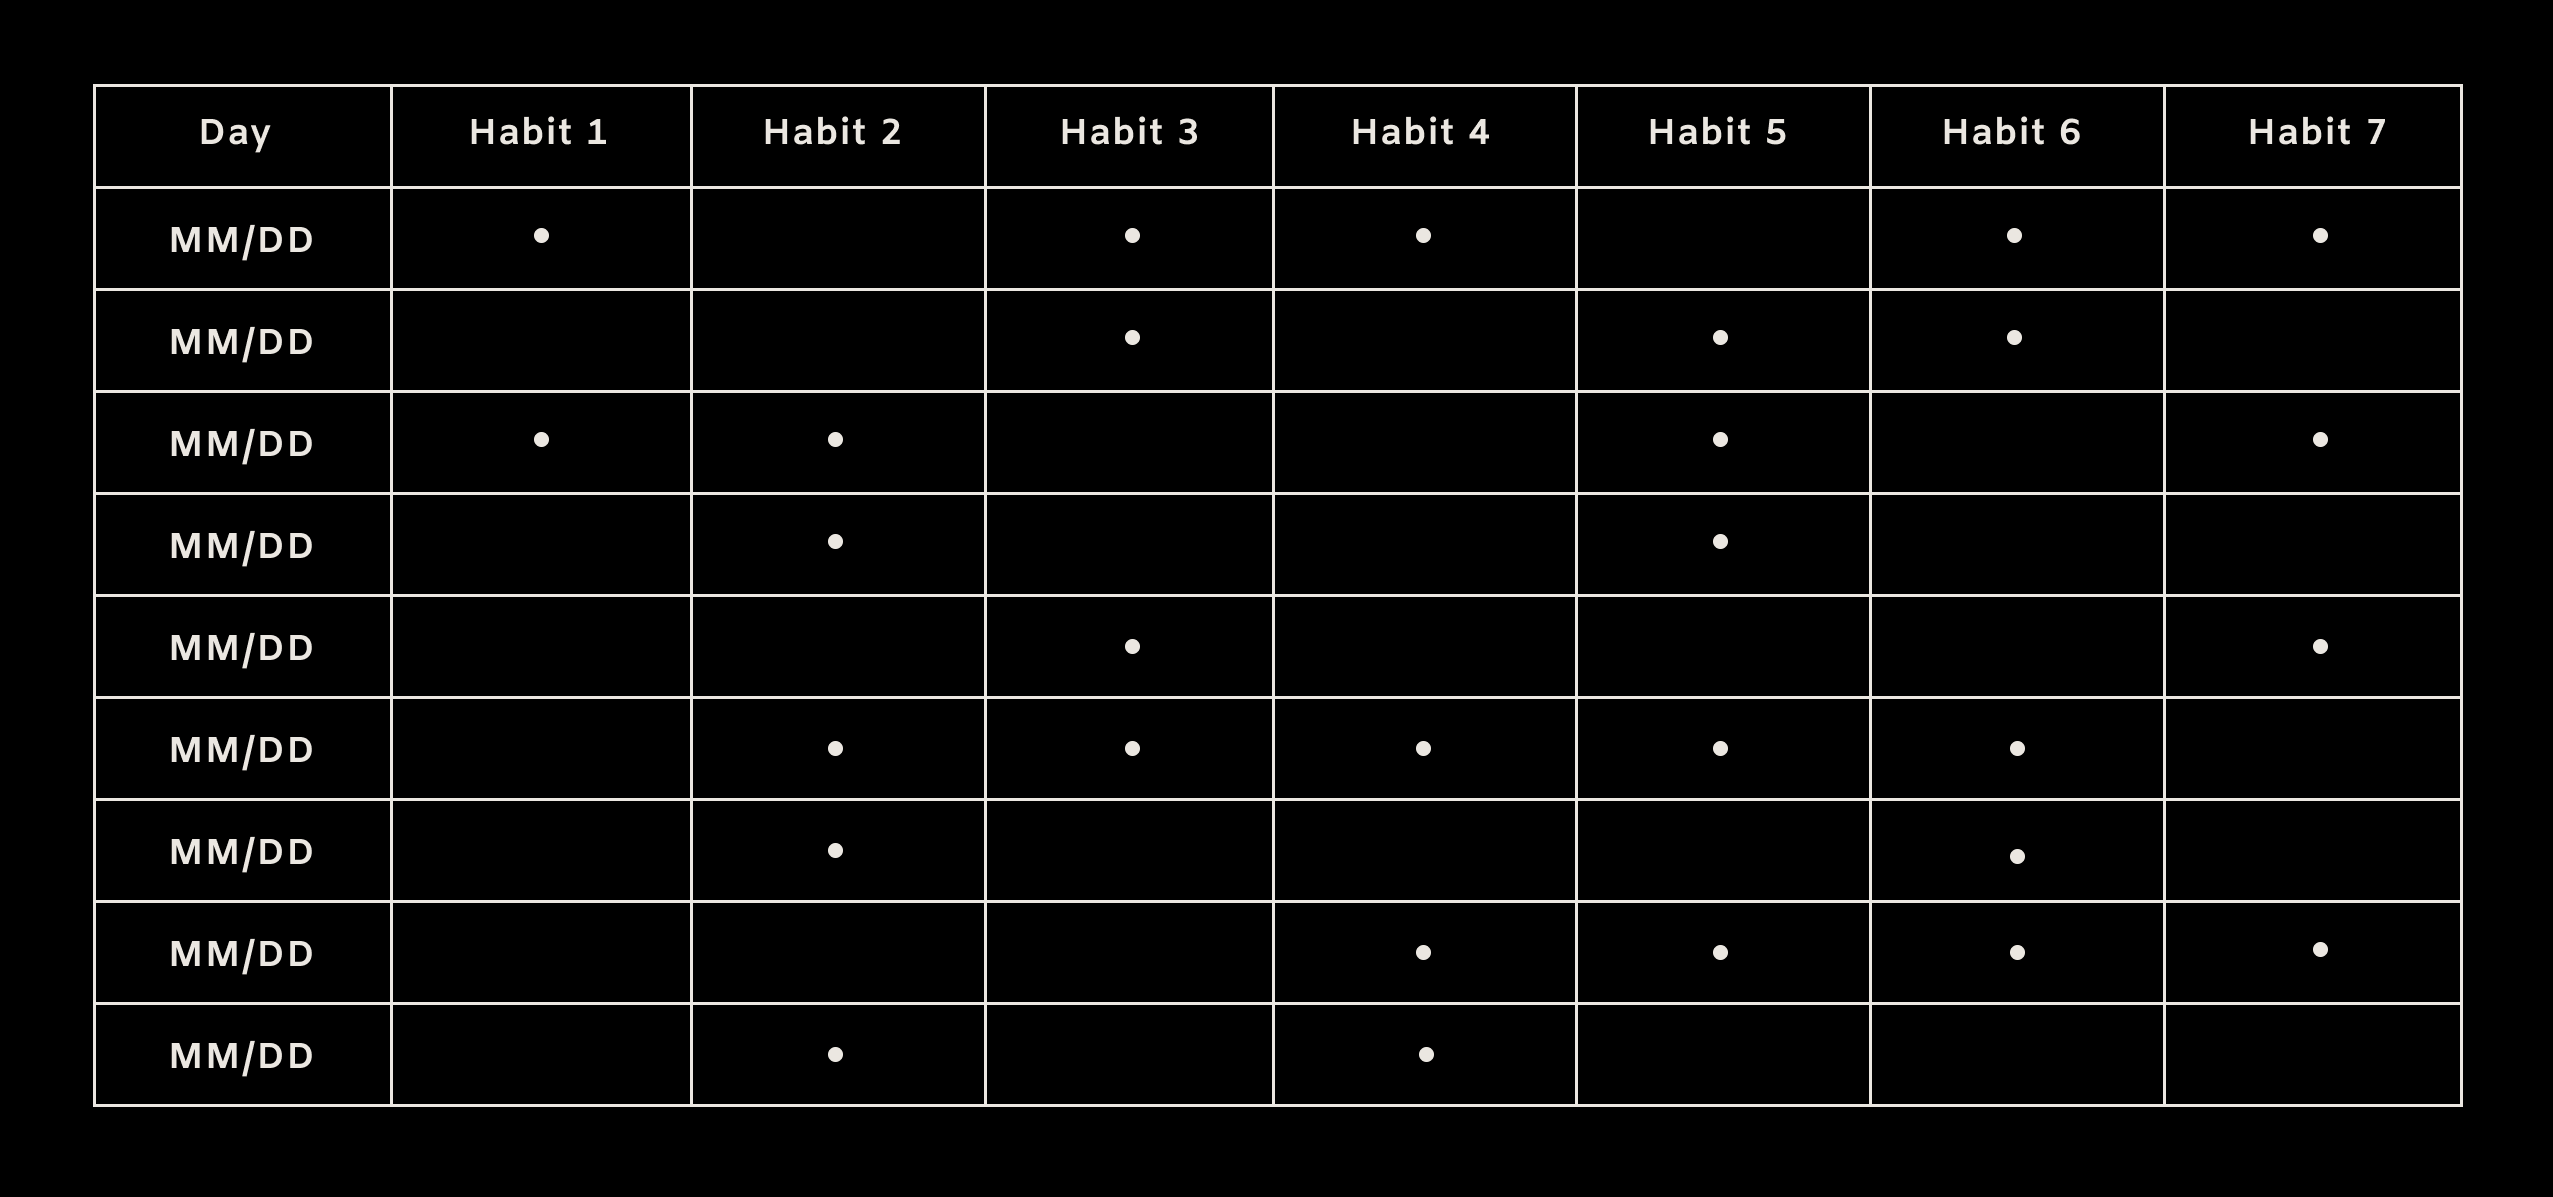
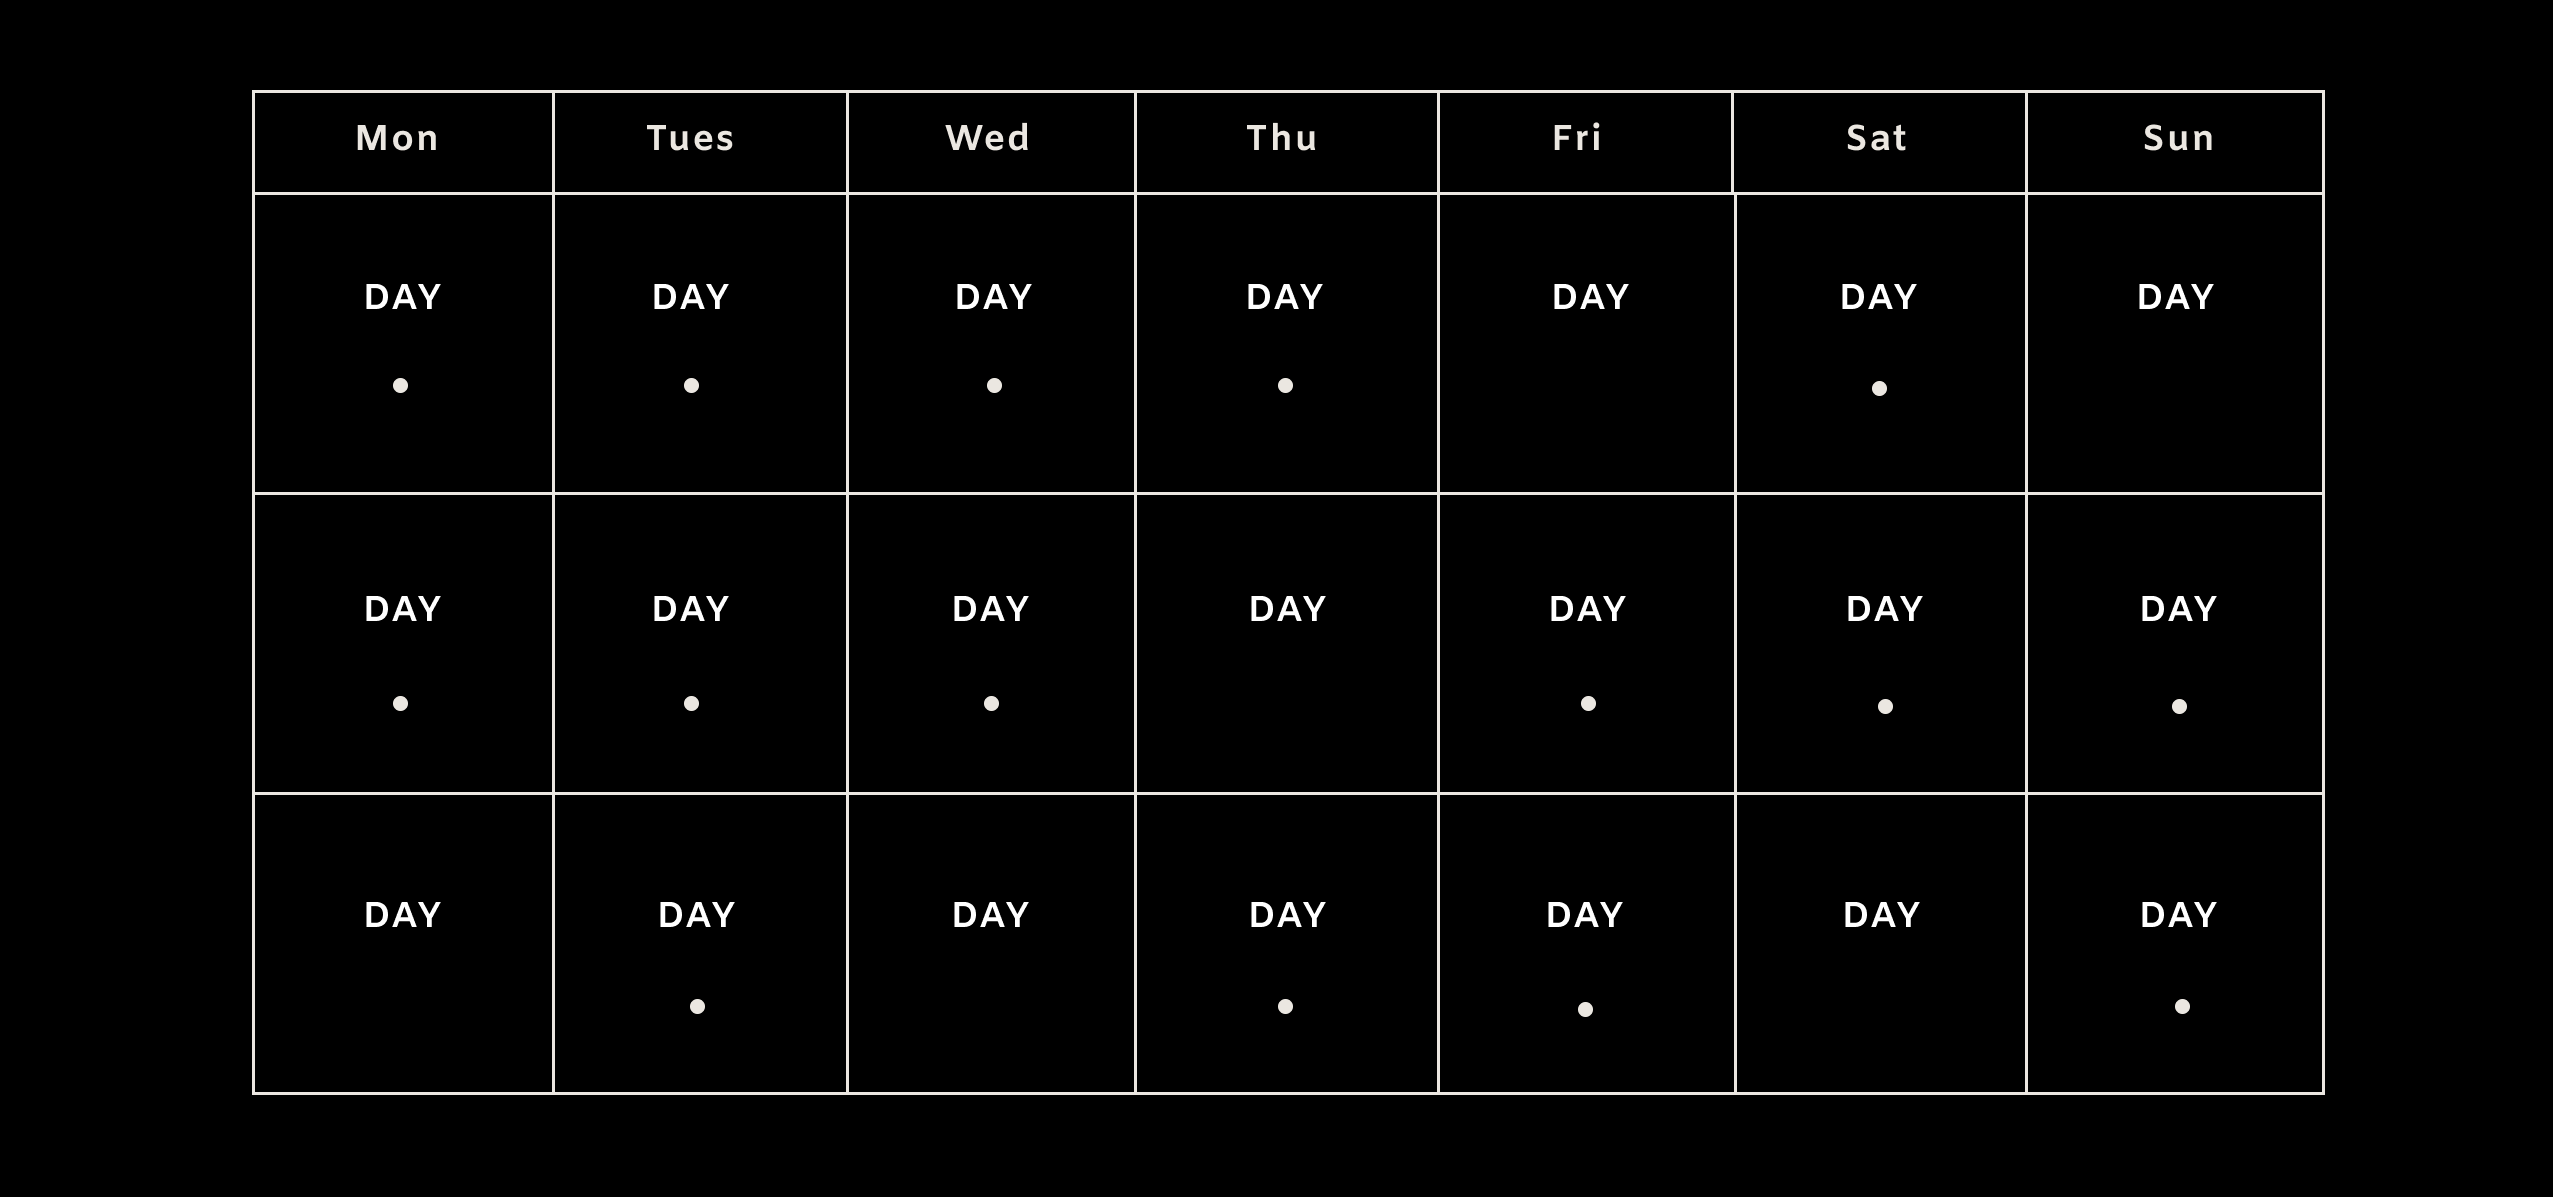
Css updates

diff --git a/client/src/components/BrowseEntries/index.css b/client/src/components/BrowseEntries/index.css
@@ -3,14 +3,13 @@
     bottom: 0;
     left: 0;
     right: 0;
-    background-color: #000;
 }
 
 .browseentriesdetailsdiv {
     width: 100%;
     height: 100px;
     padding-top: 2%;
-    padding-bottom: 5%;
+    padding-bottom: 4%;
     background-color: rgb(235, 231, 225);
 }
 
@@ -19,7 +18,7 @@
     font-size: 11px;
     font-weight: 600;
     padding: 5px;
-    margin-left: 5%;
+    margin-left: 10%;
     border: 1px solid #000;
     background-color: rgb(235, 231, 225);
     color: #000;
@@ -30,7 +29,7 @@
     font-size: 11px;
     font-weight: 600;
     padding: 5px;
-    margin-left: 5%;
+    margin-left: 10%;
     border: 1px solid #000;
     background-color: rgb(226, 223, 219);
     color: #000;
@@ -38,12 +37,18 @@
 
 
 .browseentriesheader {
-    padding-left: 5%;
+    padding-left: 10%;
     letter-spacing: 1px;
 }
 
 .browseentriesp {
-    padding-left: 5%;
+    padding-left: 10%;
+    padding-bottom: 10px;
+    font-size: 12px;
+}
+
+.browseentriesp2 {
+    padding-left: 11%;
     padding-bottom: 10px;
     font-size: 12px;
 }
@@ -51,14 +56,12 @@
 .browseentriescontainer {
     padding-left: 10%;
     padding-right: 10%;
-    padding-top: 2%;
-    padding-bottom: 20%;
+    padding-bottom: 5%;
     height: 100%;
     display: flex;
     flex-wrap: wrap;
     flex-direction: row;
     gap: 1px 1em;
-    background-color: #000;
 }
 
 .browseentriesentry {
@@ -113,6 +116,7 @@
     font-size: 13px;
     text-decoration: none;
     line-height: 1.125em;
+    padding: 20px;
 }
 
 abbr[title] {
@@ -123,7 +127,7 @@ abbr[title] {
     padding: 40%;
 }
 
-button {
+.react-calendar button {
     font-family: Corbert, Arial, Helvetica, sans-serif;
     appearance: auto;
     text-rendering: auto;
@@ -146,10 +150,9 @@ button {
     border-style: solid;
     border-color: #000;
     border-image: initial;
-    cursor: pointer;
 }
 
-button:hover {
+.react-calendar button:hover {
     font-family: Corbert, Arial, Helvetica, sans-serif;
     appearance: auto;
     text-rendering: auto;
@@ -172,6 +175,7 @@ button:hover {
     border-style: solid;
     border-color: #000;
     border-image: initial;
+    cursor: pointer;
 }
 
 .react-calendar__navigation button {
@@ -186,14 +190,15 @@ button:hover {
     letter-spacing: 1px;
     margin: 5px;
     padding: 5px;
+    margin-bottom: 40px;
 }
 
 .react-calendar__navigation button:hover {
     font-family: Corbert, Arial, Helvetica, sans-serif;
-    color: rgb(235, 231, 225);
+    color: #000;
     min-width: 19%;
-    background-color: #000;
-    border: 1px solid rgb(235, 231, 225);
+    background-color: rgb(226, 223, 219);
+    border: 1px solid #000;
     font-size: 13px;
     margin-top: 8px;
     font-weight: 600;
@@ -202,6 +207,15 @@ button:hover {
     padding: 5px;
     cursor: pointer;
 }
+
+.dotdaydot1 {
+    height: 10px;
+    width: 10px;
+    padding-top: 2.5px;
+    position: absolute;
+    cursor: pointer;
+}
+
 
 .dotdaydot {
     height: 10px;
@@ -212,5 +226,10 @@ button:hover {
 }
 
 .dotdiv {
-    margin-right: 19.5%;
+    margin-right: 20%;
+}
+
+.introdotdiv {
+    display: inline;
+    padding-left: 10%;
 }

diff --git a/client/src/components/AboutPage/index.js b/client/src/components/AboutPage/index.js
@@ -7,14 +7,7 @@ import dotdaygridgraphic from '../../images/dotdaygridgraphic.png';
 function AboutPage() {
     return (
         <div>
-            <div className='homepagefooter'>
-                <h3 className='footerheader'>About .DAY</h3>
-                <ul className='footerul'>
-                    <div className='footerp'>.DAY is a project concept created by @madisonsorah, who recently kicked off her career as a front-end developer.</div>
-                    <div className='footerp'>Created with a clean interface and minimalist design, .DAY is your digital solution to bullet journaling on a daily basis.</div>
-                    <div className='footerp2'>Feature updates will continuously be made to .DAY to improve your journaling experience.</div>
-                </ul>
-            </div>
+            <h3 className='footerheader'>How .DAY Works</h3> 
             <div className='homepageaboutcontainer'>
                 <div className='homepageaboutleft'>
                     <div className='homepageaboutleftsection'>
@@ -26,8 +19,8 @@ function AboutPage() {
                         <p className='homepagep'>Select from three pre-built journal themes or build your own.</p>
                     </div>
                     <div className='homepageaboutleftsection2'>
-                        <h4 className='homepageh4'>Track your habits on your grid.</h4>
-                        <p className='homepagep'>View your tracked habits over the course of the month to identify trends.</p>
+                        <h4 className='homepageh4'>Track published entries on your calendar grid.</h4>
+                        <p className='homepagep'>View entries written over the course of the month to identify trends.</p>
                     </div>
                 </div>
                 <div className='homepageaboutright'>
@@ -35,6 +28,14 @@ function AboutPage() {
                     <img className='homepageaboutpreview' alt='theme preview' src={dotdaythemegraphic}></img>
                     <img className='homepageaboutpreview' alt='grid preview' src={dotdaygridgraphic}></img>
                 </div>
+            </div>
+            <div className='homepagefooter'>
+                <h3 className='footerheader'>About .DAY</h3>
+                <ul className='footerul'>
+                    <div className='footerp'>.DAY is a project concept created by @madisonsorah, who recently kicked off her career as a front-end developer.</div>
+                    <div className='footerp'>Created with a clean interface and minimalist design, .DAY is your digital solution to bullet journaling on a daily basis.</div>
+                    <div className='footerp2'>Feature updates will continuously be made to .DAY to improve your journaling experience.</div>
+                </ul>
             </div>
         </div>
     )

diff --git a/client/src/components/HomePage/index.js b/client/src/components/HomePage/index.js
@@ -123,8 +123,8 @@ function HomePage({setCurrentAuthor, currentAuthor, logInForm, setLogInForm}) {
                                     <p className='homepagep'>Select from three pre-built journal themes or build your own.</p>
                                 </div>
                                 <div className='homepageaboutleftsection2'>
-                                    <h4 className='homepageh4'>Track your habits on your grid.</h4>
-                                    <p className='homepagep'>View your tracked habits over the course of the month to identify trends.</p>
+                                    <h4 className='homepageh4'>Track published entries on your calendar grid.</h4>
+                                    <p className='homepagep'>View entries written over the course of the month to identify trends.</p>
                                  </div>
                             </div>
                             <div className='homepageaboutright'>
@@ -167,8 +167,8 @@ function HomePage({setCurrentAuthor, currentAuthor, logInForm, setLogInForm}) {
                                         <p className='homepagep'>Select from three pre-built journal themes or build your own.</p>
                                     </div>
                                     <div className='homepageaboutleftsection2'>
-                                        <h4 className='homepageh4'>Track your habits on your grid.</h4>
-                                        <p className='homepagep'>View your tracked habits over the course of the month to identify trends.</p>
+                                        <h4 className='homepageh4'>Track published entries on your calendar grid.</h4>
+                                        <p className='homepagep'>View entries written over the course of the month to identify trends.</p>
                                     </div>
                                 </div>
                             <div className='homepageaboutright'>

diff --git a/client/src/components/BrowseEntries/index.js b/client/src/components/BrowseEntries/index.js
@@ -45,7 +45,7 @@ function BrowseEntries() {
             <div className='browseentriesdiv'>
                 <div className='browseentriesdetailsdiv'>
                     <h3 className='browseentriesheader'>Journal Entries</h3>
-                    <p className='browseentriesp'>View all published entries below.</p>
+                    <p className='browseentriesp'>Fill up your dates with dots and view all published entries below.</p>
                     <Link className='browseentriesnewlink' to={'/newentry'}>NEW ENTRY</Link>
                 </div>
                 <div className='browseentriescontainer'>
